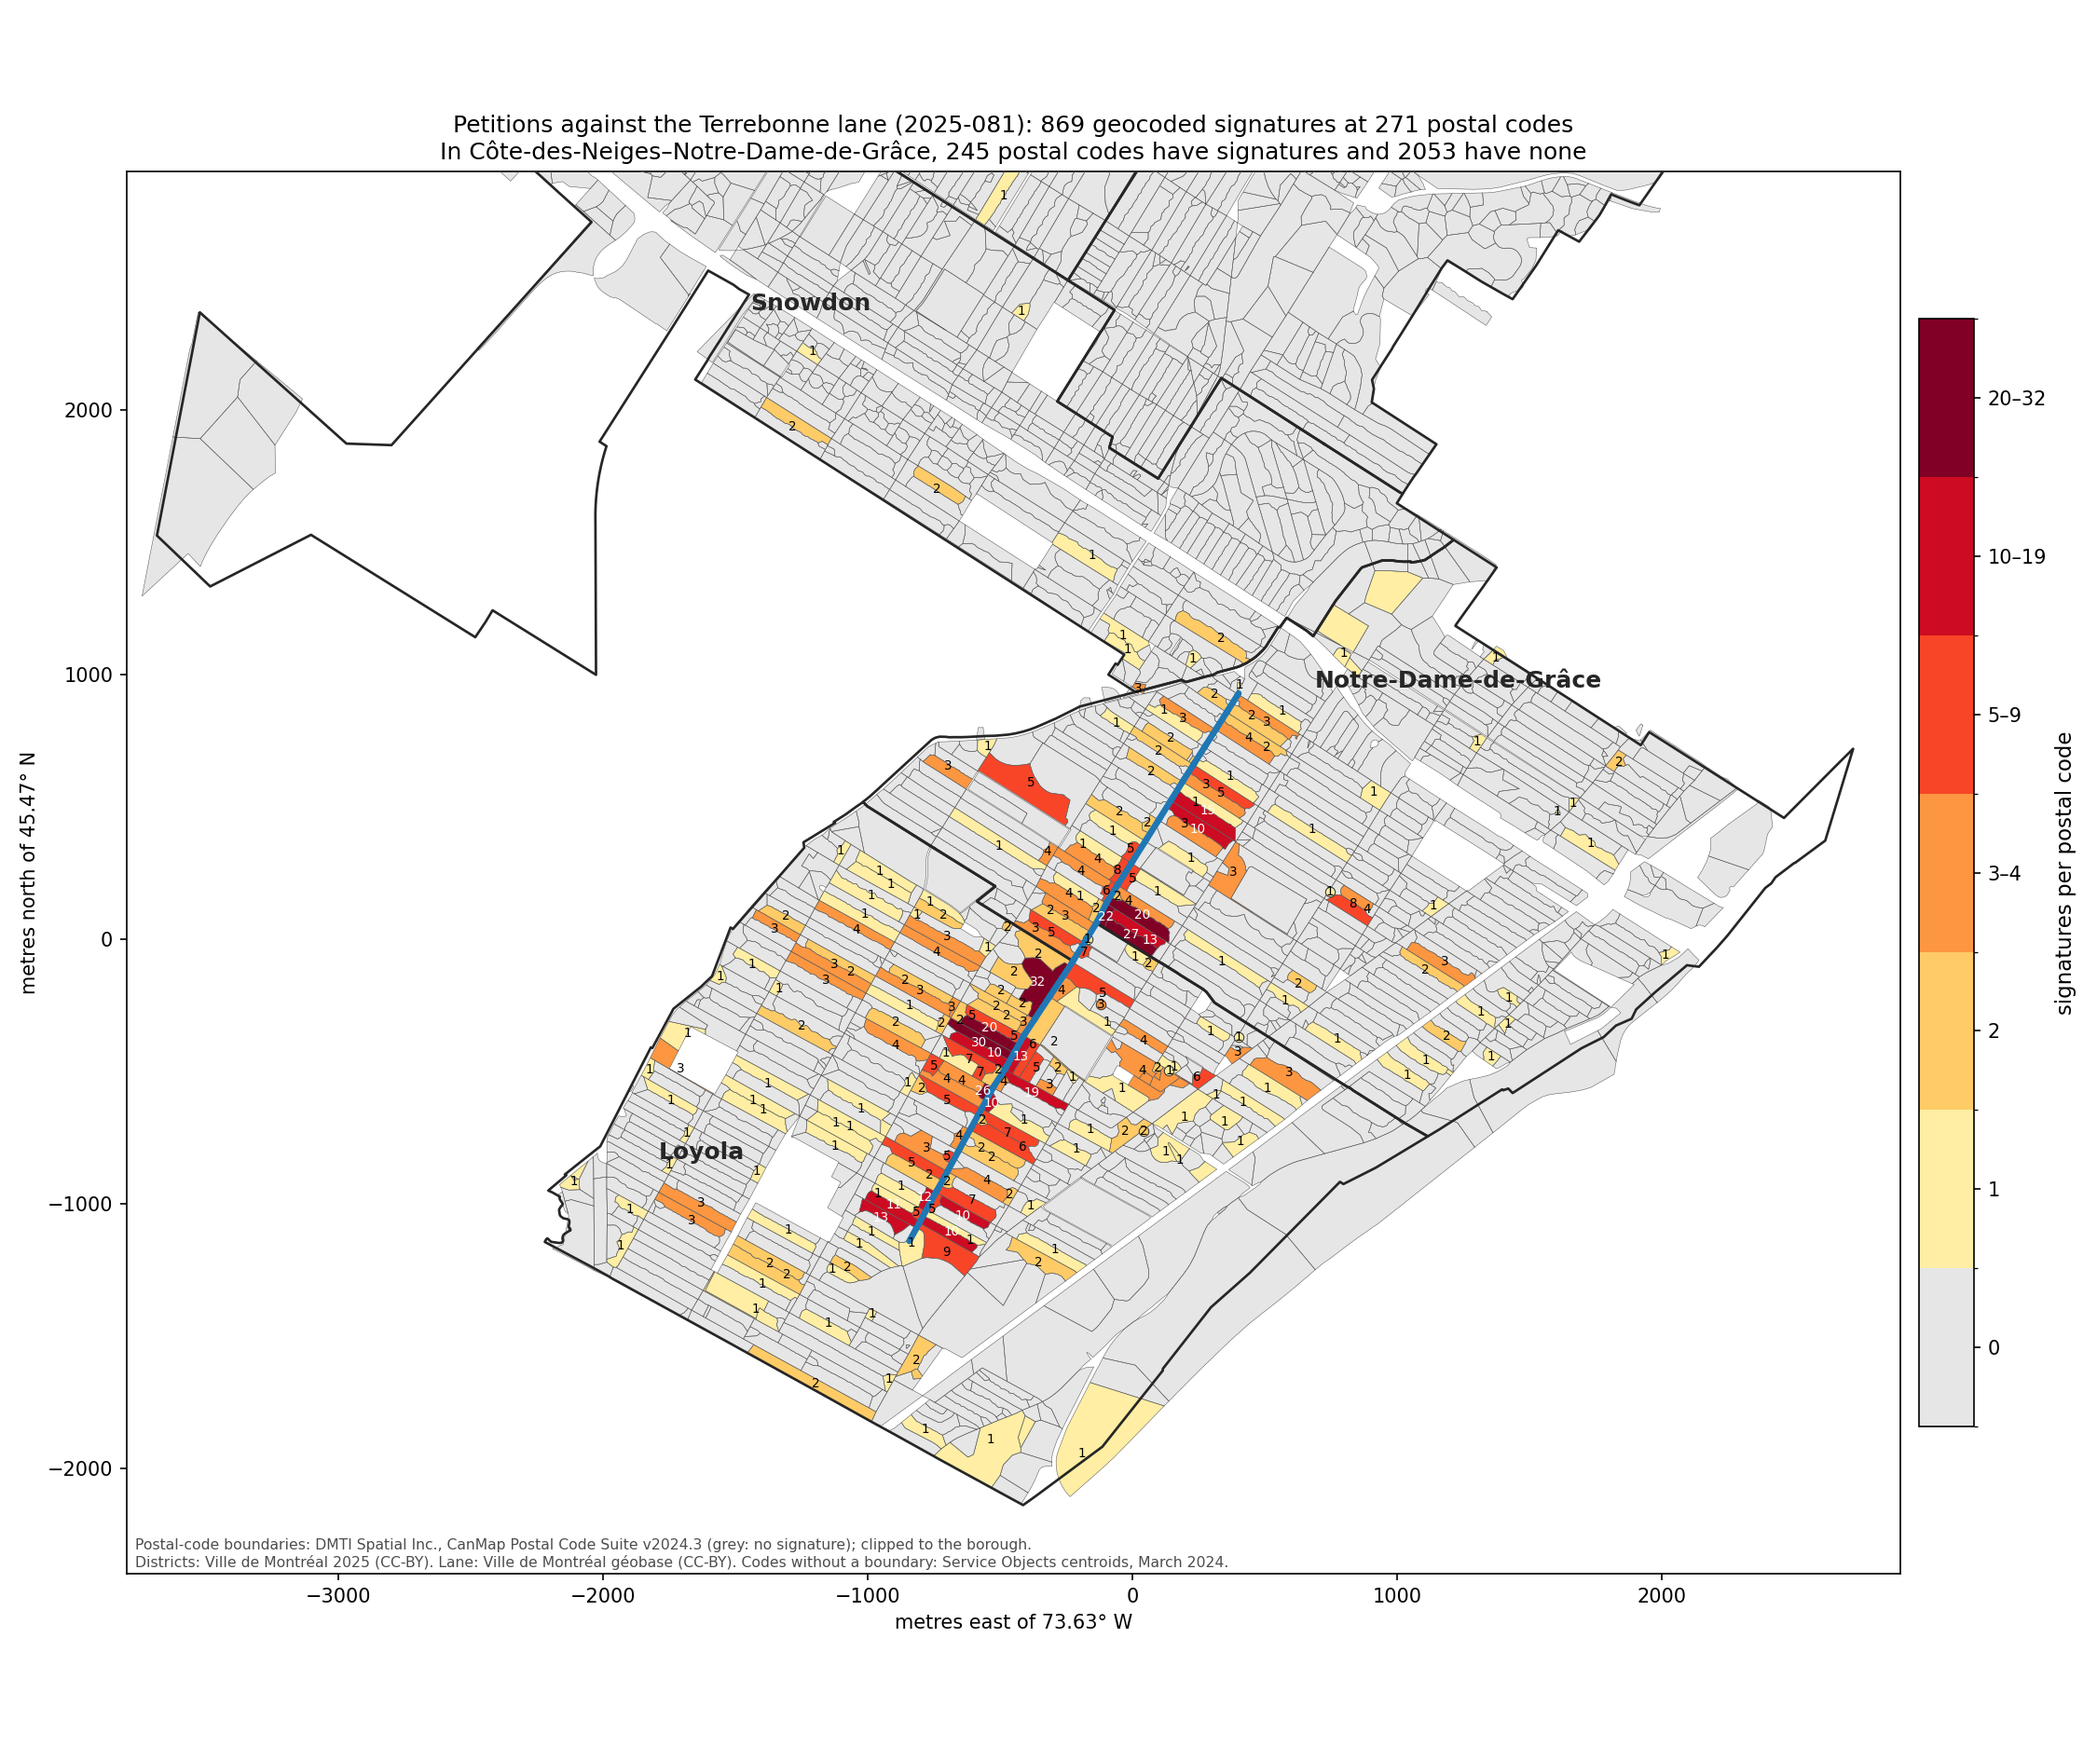
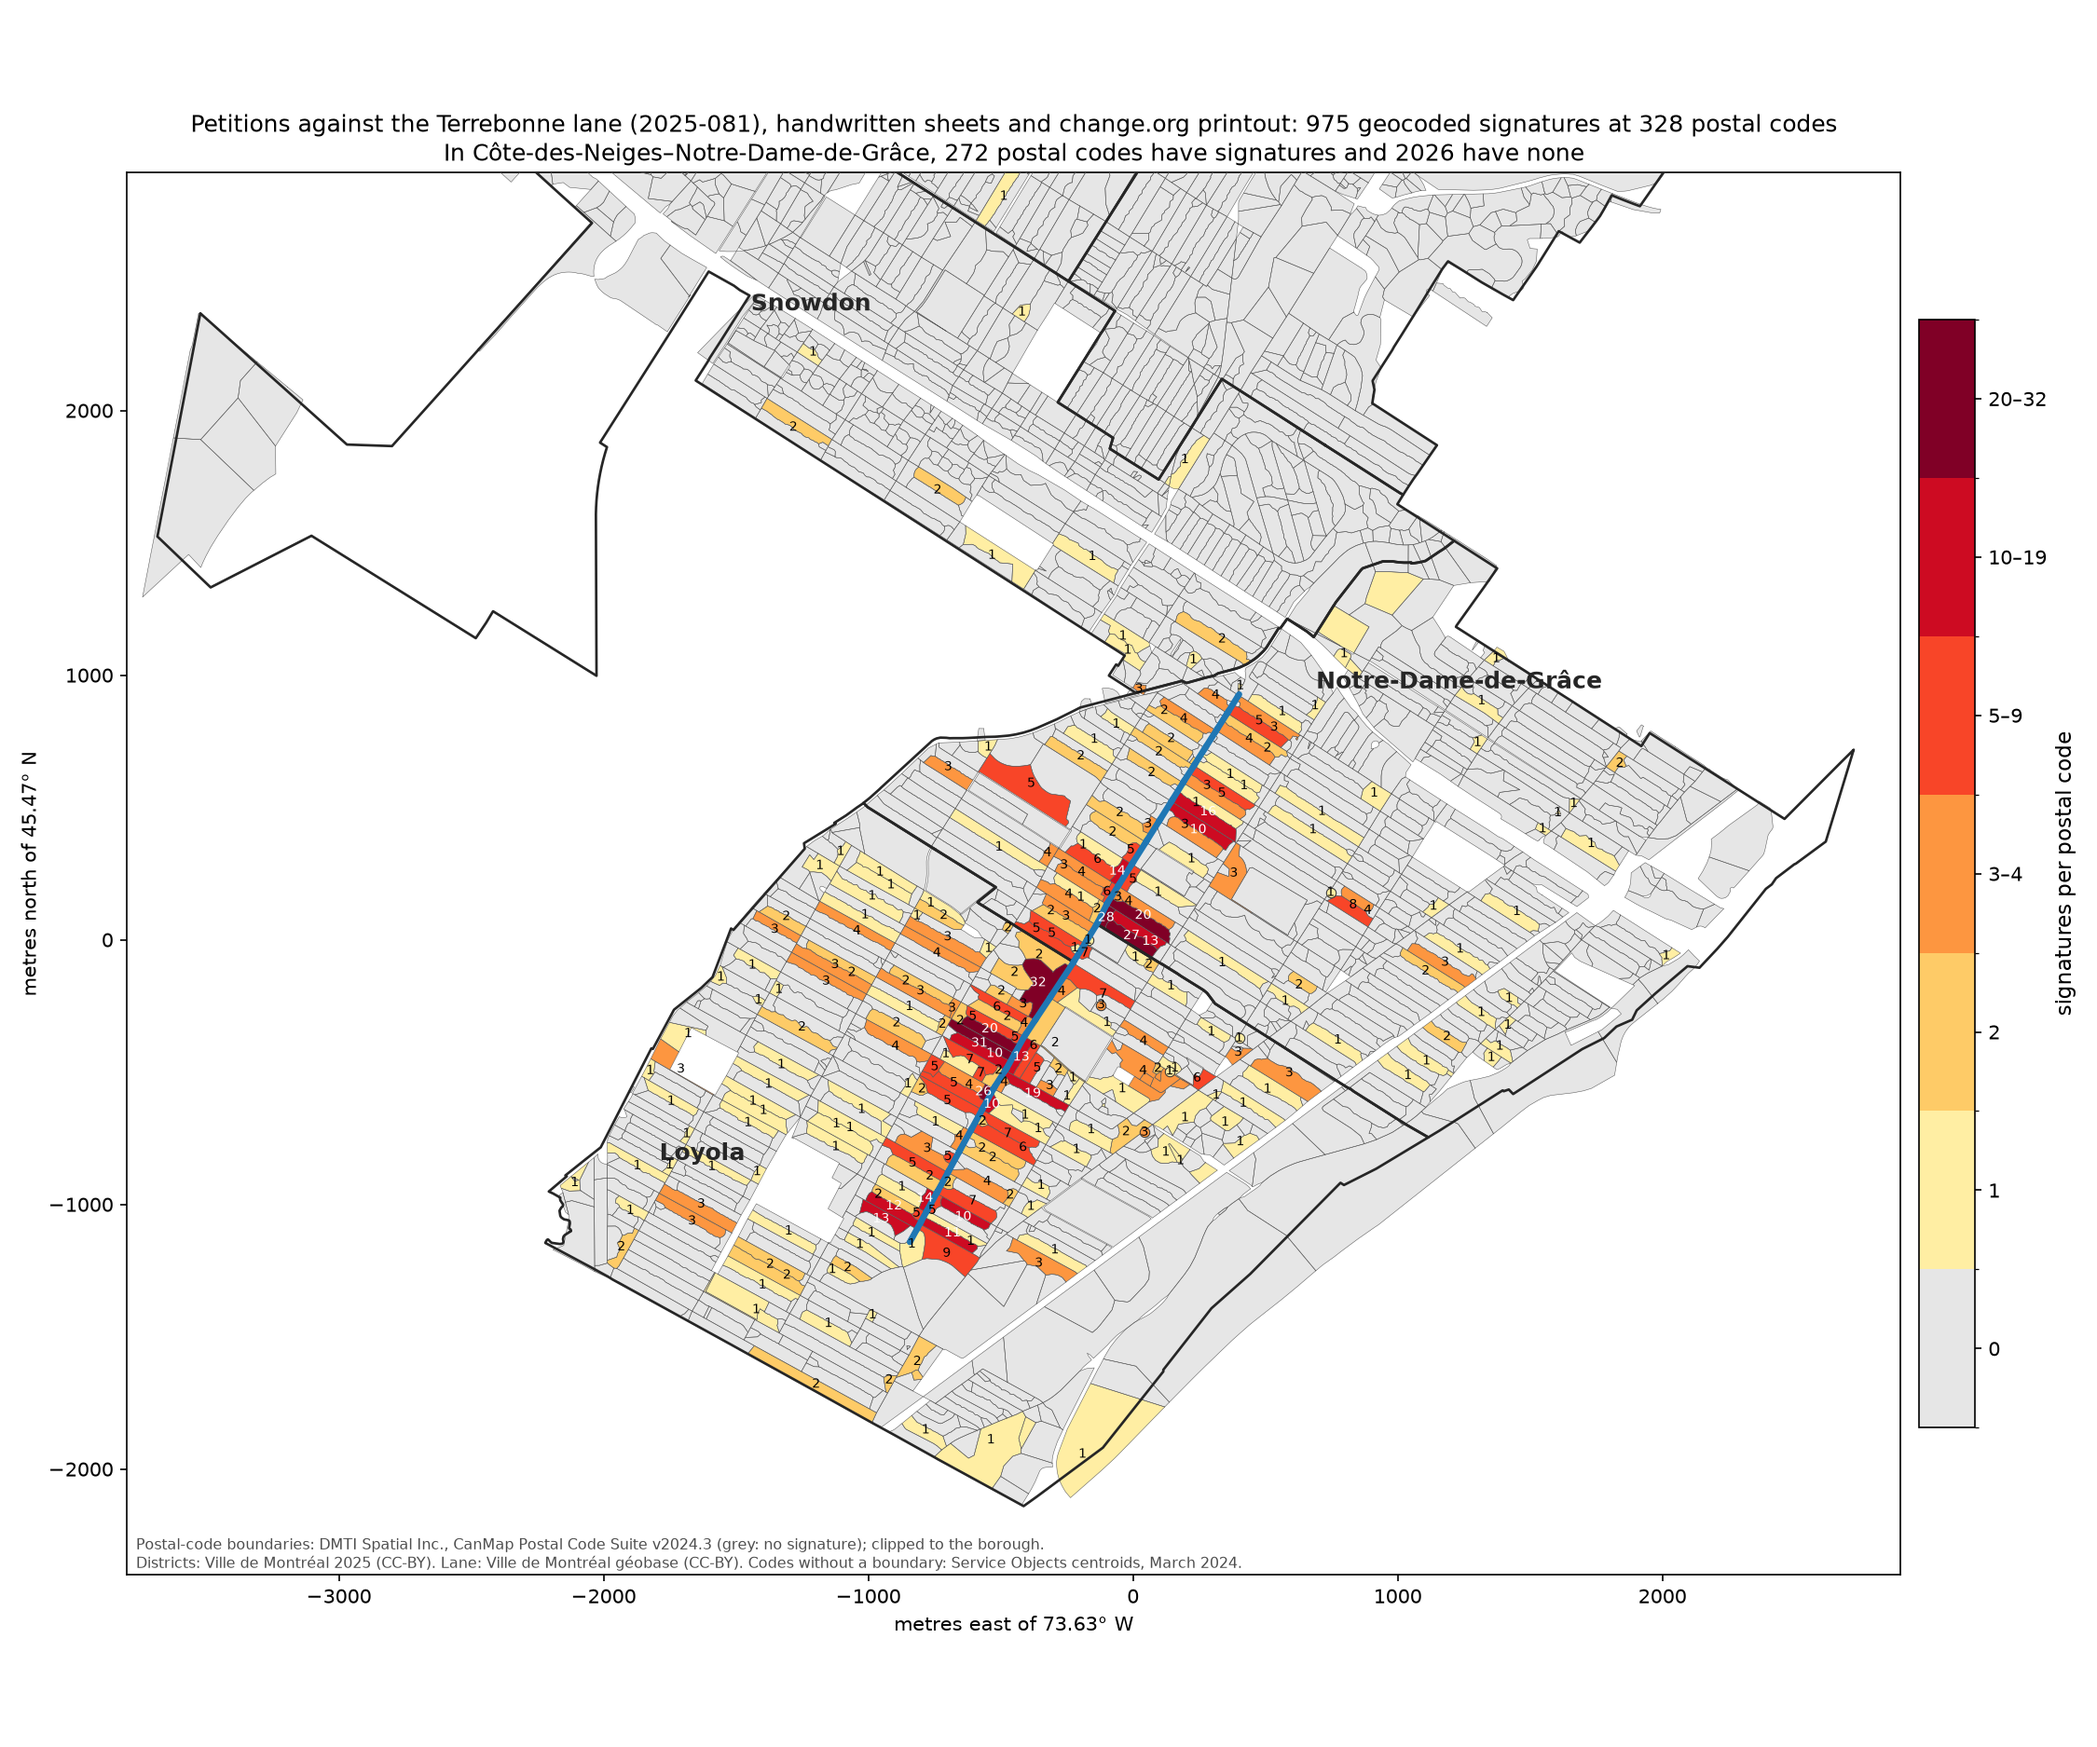
2025-081: map and tables now include the change.org printout under one rule (well-formed six-character codes from either source: 987 entries, 975 geocoded, 906 in the borough); README: method, results, 'Counts, step by step' (filter levels, the ladder from 893 stamped lines to 869, why the online ro
Claude-Session: https://claude.ai/code/session_01YZyXZ5RPMnh3hb7RNHjUgZ

diff --git a/2025-081/README.md b/2025-081/README.md
@@ -27,17 +27,36 @@ The letters (pp. 1–2) are addressed to the borough mayor and councillors "aux 
 
 | File | Content |
 |---|---|
-| [`derived/petition_signatures_by_postal_code.csv`](derived/petition_signatures_by_postal_code.csv) | Entries per six-character postal code (288 codes), with the 2025 borough district of the code's centroid and its distance to the lane |
+| [`derived/petition_signatures_by_postal_code.csv`](derived/petition_signatures_by_postal_code.csv) | Entries per six-character postal code (338 codes, both sources), with the 2025 borough district of the code's centroid and its distance to the lane |
 | [`derived/petition_signatures_by_district.csv`](derived/petition_signatures_by_district.csv) | Entries by district of the borough (2025 boundaries), other borough, outside the City, not geocoded |
 | [`derived/petition_signatures_by_distance.csv`](derived/petition_signatures_by_distance.csv) | Entries by distance from the lane (100 m, 250 m, 500 m, 1 km, 2 km bands) |
 | [`derived/petition_map.png`](derived/petition_map.png) | Map: every postal-code area in the borough, coloured by its number of signatures (grey where none) and labelled with the count, with the 2025 district boundaries and the lane. Boundaries from DMTI Spatial's CanMap Postal Code Suite v2024.3 (commercial; bought by the author; credited, not redistributed) |
+| [`derived/petition_filter_levels.csv`](derived/petition_filter_levels.csv) | Counts by filter level and source (see *Counts, step by step* below) |
 | [`derived/petition_entries_by_source_and_borough.csv`](derived/petition_entries_by_source_and_borough.csv) | Earlier, coarser table: entries by source sheet and by borough from the forward sortation area (H4A/H4B, H4V/H4X, H3W/H3X, H3S/H3T/H3V classed as CDN–NDG; "ambiguous" = an area straddling CDN–NDG and Ville-Marie). Entries are rows read, not signatures |
 
-**Method.** The postal codes were read from the released scan in March 2025 (text recognition, checked by hand): 890 rows, 888 with a six-character code, 288 distinct codes. Each code was geocoded to its centroid, placed in a borough electoral district with the City's 2025 polygons, and measured to the nearest point of the lane on the City's géobase. The third-party files are not redistributed; they are named with links in the header of each CSV so that anyone can obtain them (the City's district polygons and géobase are CC-BY 4.0; the geocoding table is Service Objects' free postal-code database, March 2024 edition; the postal-code boundaries on the map are DMTI Spatial's CanMap Postal Code Suite v2024.3, a commercial product used under the author's licence). In the map's count, 245 of the borough's 2,298 postal-code areas have at least one signature. The script is `scripts/petition_map.py` in the private repository, a port of the 2025 MATLAB script.
+**Method.** The postal codes were read from the released scan in March 2025. The handwritten sheets were stamped line by line in Acrobat (893 counter stamps) and read by hand into a table of 890 rows in stamp order; the change.org printout was read by text recognition into 304 rows (the printout reproduces the postal code as each signer typed it, often the three-character prefix alone). Since October 22, 2026 the map and the tables use both sources under one rule: every entry whose postal code is a well-formed six-character code is kept (881 handwritten, 106 online, 987 in all, 338 distinct codes); prefix-only, ill-formed and blank entries are counted and left out. Until then the map showed the handwritten sheets alone (888 entries, 869 geocoded). Each code was geocoded to its centroid, placed in a borough electoral district with the City's 2025 polygons, and measured to the nearest point of the lane on the City's géobase. The third-party files are not redistributed; they are named with links in the header of each CSV so that anyone can obtain them (the City's district polygons and géobase are CC-BY 4.0; the geocoding table is Service Objects' free postal-code database, March 2024 edition; the postal-code boundaries on the map are DMTI Spatial's CanMap Postal Code Suite v2024.3, a commercial product used under the author's licence). In the map's count, 272 of the borough's 2,298 postal-code areas have at least one signature. The script is `scripts/petition_map.py` in the private repository, a port of the 2025 MATLAB script.
 
-**Results.** 869 of the 888 entries (271 codes) were geocoded; 19 entries carry codes that do not exist or were misread. By district of the borough: Loyola 524 entries (59%), Notre-Dame-de-Grâce 288 (32%), Snowdon 15, Côte-des-Neiges 2, Darlington 1; other boroughs 12; outside the City of Montréal 27 (mostly the adjacent municipalities of Côte-Saint-Luc, Hampstead and Montréal-Ouest). By distance from the lane: 398 entries (46% of those geocoded) are at postal codes within 100 m of it, 57% within 250 m, 79% within 500 m, 92% within 1 km.
+**Results.** 975 of the 987 entries (328 codes) were geocoded; 12 entries carry codes that do not exist in the postal-code table (misread or invented). By district of the borough: Loyola 553 entries (56%), Notre-Dame-de-Grâce 331 (34%), Snowdon 17, Darlington 3, Côte-des-Neiges 2, in all 906 (93% of those geocoded); other boroughs 28; outside the City of Montréal 41 (mostly the adjacent municipalities of Côte-Saint-Luc, Hampstead and Montréal-Ouest). By distance from the lane: 425 entries (44% of those geocoded) are at postal codes within 100 m of it, 55% within 250 m, 76% within 500 m, 89% within 1 km. For the handwritten sheets alone, the figures that stood until October 2026: 869 geocoded, 830 in the borough (Loyola 524, NDG 288), 79% within 500 m.
 
 **Note on the 2025 reading.** The analysis written in March 2025 classified codes by forward sortation area and treated H4A and H4B as the NDG district; H4B straddles Loyola and NDG, so that method put about 80% of the entries in NDG district and 13% in Loyola. With the district polygons the split is the reverse: the signatures come mostly from the western, Loyola section of the lane. Both districts' councillors therefore have signatories among their residents.
+
+## Counts, step by step
+
+The organizers' cover letter (p. 2) gives 1,138 signatures: « petitions signed by 796 citizens whom we met personally » and « the PDF of those 342 who have signed the petition online ». What the released scan supports, by filter level (`derived/petition_filter_levels.csv`; the corridor is the band between Monkland and Somerled, about 270 m either side of the lane, over its 2.4 km, by postal-code centroid):
+
+| Level | Handwritten sheets | Change.org printout | Both |
+|---|---:|---:|---:|
+| 1. Lines on the sheets (counter stamps of March 2025) | 893 | 310 | 1,203 |
+| 1b. Lines read into a table | 890 | 304 | 1,194 |
+| 2. Any postal-code entry | 890 | 301 | 1,191 |
+| 3. Well-formed prefix (A1A), with or without the rest | 887 | 300 | 1,187 |
+| 4. Well-formed full code (A1A 1A1) | 881 | 106 | 987 |
+| 5. Full code inside Côte-des-Neiges–Notre-Dame-de-Grâce | 830 | 76 | 906 |
+| 6. Full code in the Terrebonne corridor | 555 | 44 | 599 |
+
+Among the well-formed full codes: Canada outside Québec 3 (all online); Québec outside the City of Montréal 38 (27 + 11); Montréal outside the borough 28 (12 + 16); codes absent from the postal-code table 12 (all handwritten); no US ZIP pattern. Ill-formed entries: 4 (for instance H4B 244, H4V 2JS: one-character slips). The handwritten master drops from 893 stamped lines to 869 geocoded in four steps: 3 lines with nothing readable, 2 prefix-only entries, 7 ill-formed codes, 12 codes absent from the table.
+
+Why the online rows were left off the map until October 2026: the change.org printout gives the postal code as typed by the signer, unvalidated; 192 of its 304 entries are a prefix alone and cannot be placed at six-character precision. The 106 that can be placed are now included under the same rule as the handwritten entries.
 
 ## Timeline
 
